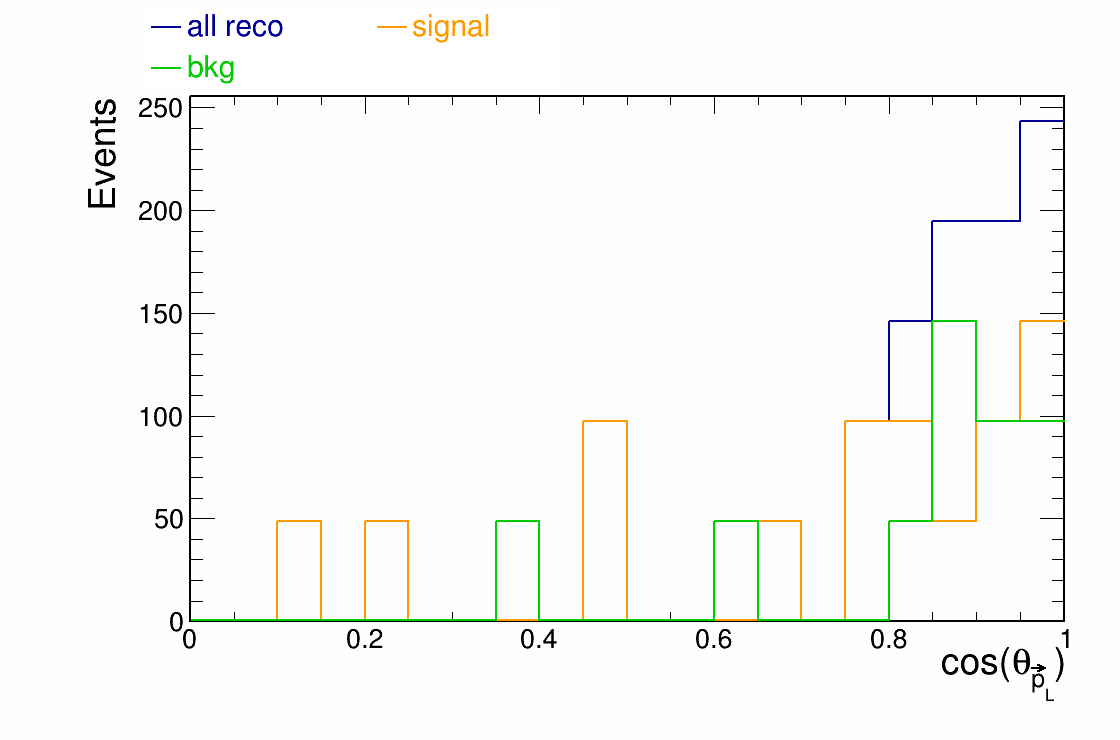
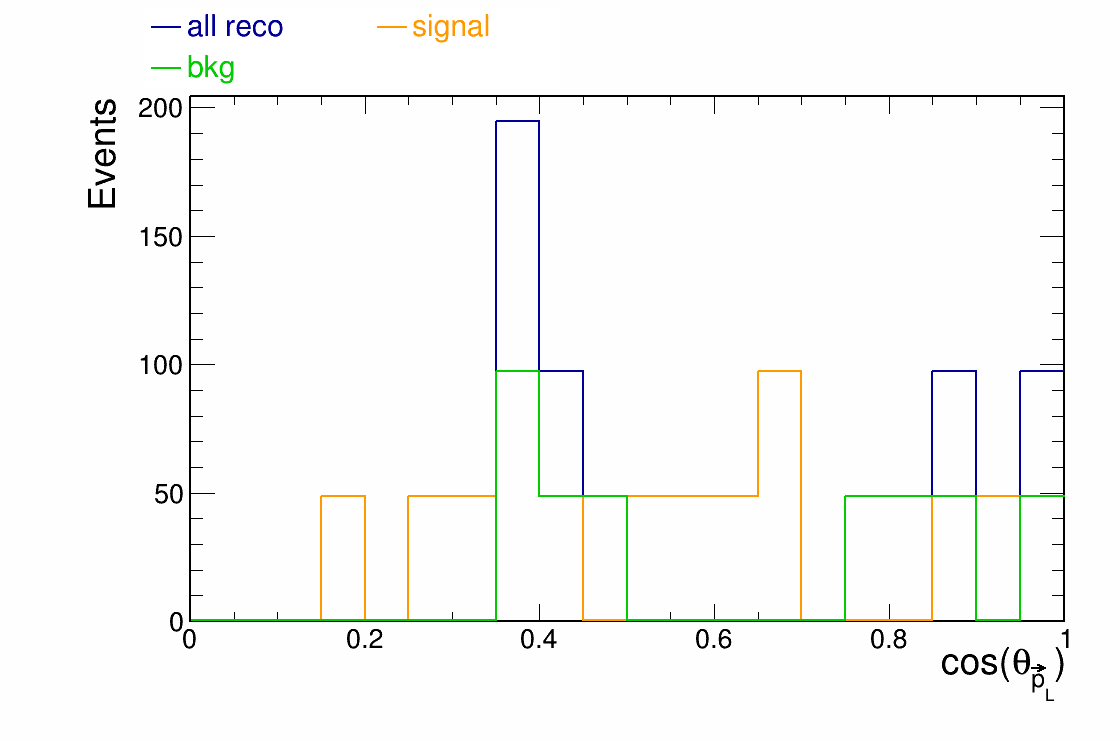
Improve particle vector reconstruction

diff --git a/CAFAnaAnalysis/Scripts/Definitions.h b/CAFAnaAnalysis/Scripts/Definitions.h
@@ -1,11 +1,13 @@
 // SBNAna includes.
 #include "sbnanaobj/StandardRecord/Proxy/SRProxy.h"
 #include "sbnanaobj/StandardRecord/SRVector3D.h"
+#include "sbnanaobj/StandardRecord/SRTrack.h"
 #include "sbnana/CAFAna/Core/Var.h"
 #include "sbnana/CAFAna/Core/Cut.h"
 
 // Root includes.
 #include "TVector3.h"
+#include "TMath.h"
 
 // std includes.
 #include <vector>
@@ -201,11 +203,28 @@ namespace ana
 
     // Gets position vectors given the particle IDs
     std::tuple<TVector3, TVector3, TVector3> GetVectors(const caf::SRSliceProxy* slc, int MuonID, int ProtonID1, int ProtonID2) {
-        TVector3 Muon; TVector3 LeadingProton; TVector3 RecoilProton;
+        TVector3 Muon(1, 1, 1); 
+        TVector3 LeadingProton(1, 1, 1); 
+        TVector3 RecoilProton(1, 1, 1);
+        
         for (auto const& pfp : slc -> reco.pfp) {
-            if (pfp.id == MuonID) Muon.SetXYZ(pfp.trk.start.x, pfp.trk.start.y, pfp.trk.start.z);
-            if (pfp.id == ProtonID1) LeadingProton.SetXYZ(pfp.trk.start.x, pfp.trk.start.y, pfp.trk.start.z);
-            if (pfp.id == ProtonID2) RecoilProton.SetXYZ(pfp.trk.start.x, pfp.trk.start.y, pfp.trk.start.z);
+            if (pfp.id == MuonID) {
+                Muon.SetTheta(TMath::ACos(pfp.trk.costh));
+                Muon.SetPhi(pfp.trk.phi);
+                if (bIsInFV(&pfp.trk.end)) {
+                    Muon.SetMag(pfp.trk.rangeP.p_muon);
+                } else {
+                    Muon.SetMag(pfp.trk.mcsP.fwdP_muon);
+                }
+            } else if (pfp.id == ProtonID1) {
+                LeadingProton.SetTheta(TMath::ACos(pfp.trk.costh));
+                LeadingProton.SetPhi(pfp.trk.phi);
+                LeadingProton.SetMag(pfp.trk.rangeP.p_proton);
+            } else if (pfp.id == ProtonID2) {
+                RecoilProton.SetTheta(TMath::ACos(pfp.trk.costh));
+                RecoilProton.SetPhi(pfp.trk.phi);
+                RecoilProton.SetMag(pfp.trk.rangeP.p_proton);
+            }
         }
         return {Muon, LeadingProton, RecoilProton};
     }
@@ -220,7 +239,7 @@ namespace ana
         auto [TwoProtons, ProtonIDs] = bTwoProtons(slc, MuonID);
         auto [Muon, LeadingProton, RecoilProton] = GetVectors(slc, MuonID, ProtonIDs.at(0), ProtonIDs.at(1));
 
-        // Use TwoPTools class
+        // Use helper class
         TwoPTools Helper(Muon, LeadingProton, RecoilProton);
 
         double MuonCosTheta = Helper.ReturnMuonCosTheta();
@@ -267,6 +286,20 @@ namespace ana
     // Recoil proton angle
     const Var kRecoilProtonCosTheta([](const caf::SRSliceProxy* slc) -> double {
         return kVars(slc).at(2);
+    });
+
+    // Opening angle between protons
+    const Var kCosOpeningAngleProtons([](const caf::SRSliceProxy* slc) -> double {
+        return kVars(slc).at(3);
+    });
+
+    // Opening angle between muon and total proton
+    const Var kCosOpeningAngleMuonTotalProton([](const caf::SRSliceProxy* slc) -> double {
+        return kVars(slc).at(4);
+    });
+
+    const Var kDeltaAlphaT([](const caf::SRSliceProxy* slc) -> double {
+        return kVars(slc).at(5);
     });
 
     //////////////

diff --git a/CAFAnaAnalysis/Scripts/Selection.C b/CAFAnaAnalysis/Scripts/Selection.C
@@ -34,6 +34,7 @@ void Selection()
     // Create the binning schemes for the Vars we wish to plot.
     const Binning bPrimaryEnergy = Binning::Simple(20, 0, 3.0);
     const Binning bAngleBins = Binning::Simple(20, 0.0, 1.0);
+    const Binning bDeltaAlphaBins = Binning::Simple(20, 0.0, 180.0);
 
     // We now create overlaid plots for several reconstructed variables and three lines:
     //     1. all selected reconstructed events
@@ -58,6 +59,18 @@ void Selection()
     // Recoil proton angle
     Vars.push_back(kRecoilProtonCosTheta); VarBins.push_back(bAngleBins);
     PlotNames.push_back("RecoilProtonCosTheta"); VarLabels.push_back("cos(#theta_{#vec{p}_{R}})");
+
+    // Opening angle between protons
+    Vars.push_back(kCosOpeningAngleProtons); VarBins.push_back(bAngleBins);
+    PlotNames.push_back("CosOpeningAngleProtons"); VarLabels.push_back("cos(#theta_{#vec{p}_{L},#vec{p}_{R}})");
+
+    // Opening angle between muon and total proton
+    Vars.push_back(kCosOpeningAngleMuonTotalProton); VarBins.push_back(bAngleBins);
+    PlotNames.push_back("CosOpeningAngleMuonTotalProton"); VarLabels.push_back("cos(#theta_{#vec{p}_{#mu},#vec{p}_{sum}})");
+
+    // Delta alpha transverse
+    Vars.push_back(kDeltaAlphaT); VarBins.push_back(bDeltaAlphaBins);
+    PlotNames.push_back("DeltaAlphaT"); VarLabels.push_back("#delta #alpha_{T}");
 
     // Spectrum with all true signal events
     Spectrum TrueSignals("TrueSignals", bPrimaryEnergy, NuLoader, kTrueEnergy, kTruthIsSignal, kNoSpillCut, kNoCut);
@@ -124,6 +137,7 @@ void Selection()
             double RecoEvents = RecoHisto->Integral();
             double BkgEvents  = RecoBkgHisto->Integral();
 
+            std::cout << std::endl;
             std::cout << "True events: " << TrueEvents << std::endl;
             std::cout << "Reconstructed events: " << RecoEvents << std::endl;
             std::cout << "Background events: " << BkgEvents << std::endl;
